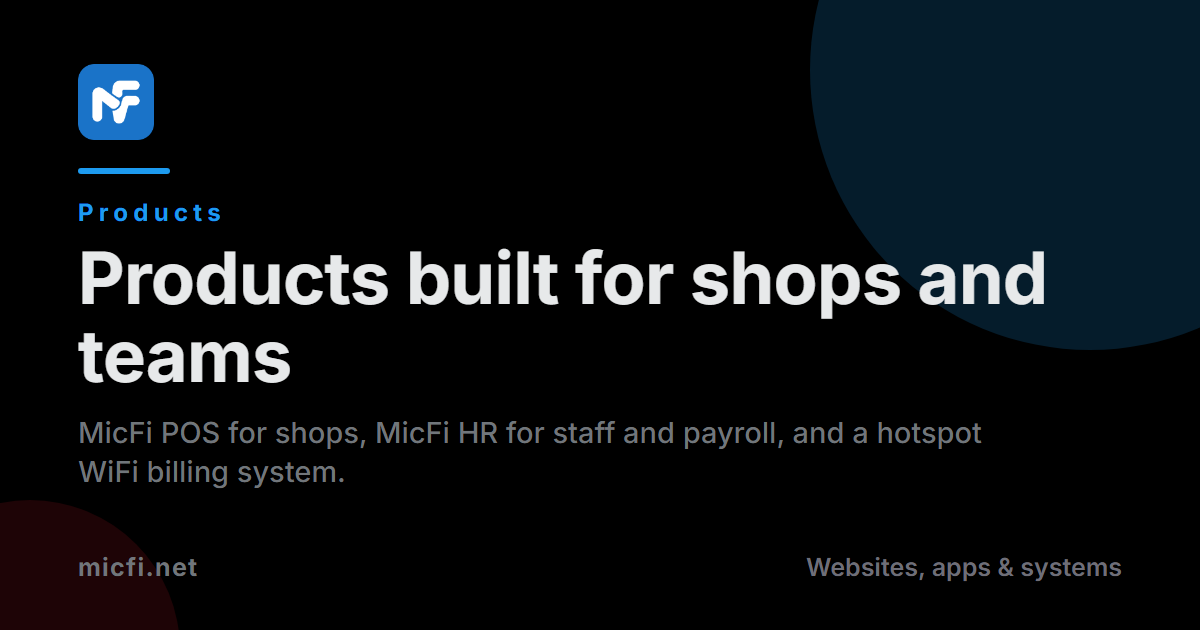
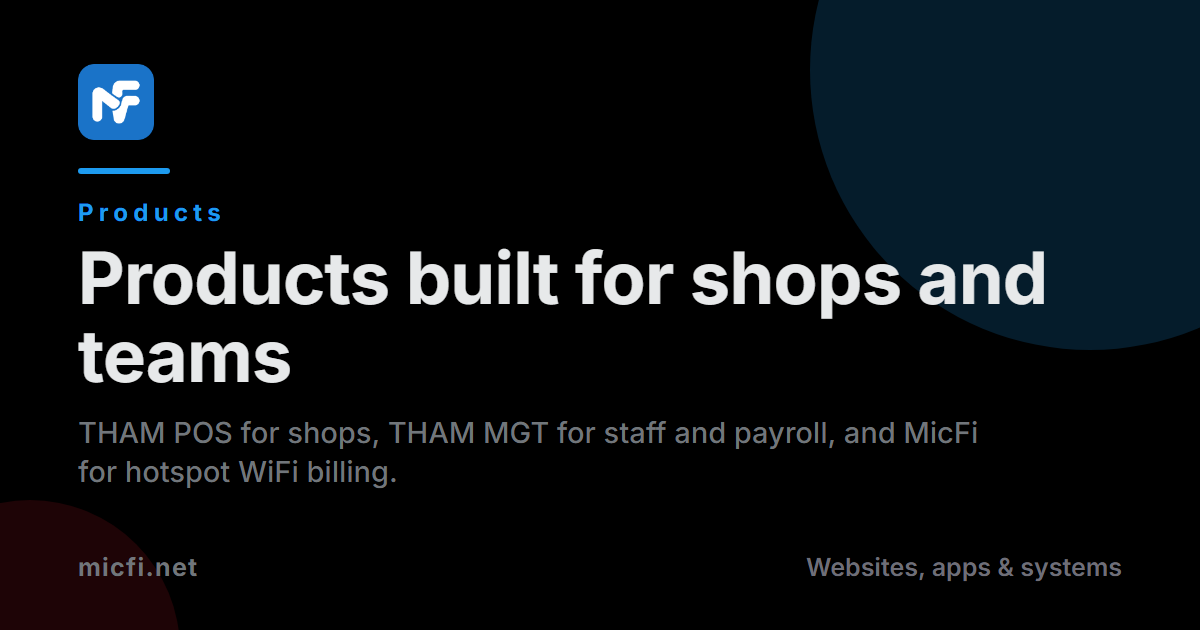
Rename product titles to THAM POS, THAM MGT, MicFi

Changed region(s): [[0.0617, 0.6635, 0.8325, 0.7841]]

diff --git a/products/index.html b/products/index.html
@@ -4,13 +4,13 @@
   <meta charset="utf-8">
   <meta name="viewport" content="width=device-width, initial-scale=1, viewport-fit=cover">
   <!-- META:START generated by tools/generate-meta.js from js/config.js. Do not edit by hand. -->
-  <title>Products | MicFi POS, HR and Hotspot Systems</title>
-  <meta name="description" content="The products MicFi builds: MicFi POS for shops, MicFi HR for staff records and payroll, and a hotspot WiFi billing system.">
+  <title>Products | THAM POS, THAM MGT and MicFi</title>
+  <meta name="description" content="The products MicFi builds: THAM POS for shops, THAM MGT for staff records and payroll, and MicFi for hotspot WiFi billing.">
   <link rel="canonical" href="https://micfi.net/products/">
   <meta property="og:type" content="website">
   <meta property="og:site_name" content="MicFi">
   <meta property="og:title" content="Products built for shops and teams">
-  <meta property="og:description" content="MicFi POS for shops, MicFi HR for staff and payroll, and a hotspot WiFi billing system.">
+  <meta property="og:description" content="THAM POS for shops, THAM MGT for staff and payroll, and MicFi for hotspot WiFi billing.">
   <meta property="og:url" content="https://micfi.net/products/">
   <meta property="og:image" content="https://micfi.net/assets/og/products.png">
   <meta property="og:image:type" content="image/png">
@@ -20,7 +20,7 @@
   <meta property="og:locale" content="en_US">
   <meta name="twitter:card" content="summary_large_image">
   <meta name="twitter:title" content="Products built for shops and teams">
-  <meta name="twitter:description" content="MicFi POS for shops, MicFi HR for staff and payroll, and a hotspot WiFi billing system.">
+  <meta name="twitter:description" content="THAM POS for shops, THAM MGT for staff and payroll, and MicFi for hotspot WiFi billing.">
   <meta name="twitter:image" content="https://micfi.net/assets/og/products.png">
   <meta name="twitter:image:alt" content="Products built for shops and teams">
   <!-- META:END -->
@@ -84,9 +84,9 @@
       <h2 class="sr-only">All products</h2>
       <div class="grid-3" data-products-grid>
         <!-- CONTENT:products-grid START generated by tools/generate-content.js. Do not edit by hand. -->
-        <article class="media-card"><div class="media-thumb" aria-hidden="true"><img class="media-thumb-img" src="/assets/products/pos.png" alt="" loading="lazy" decoding="async"></div><div class="media-body"><div class="media-tags"><span class="tag">POS</span></div><h3 class="item-title">MicFi POS</h3><p class="small muted">A point-of-sale system for shops and small retail: sales, stock, and receipts in one place.</p></div></article>
-        <article class="media-card"><div class="media-thumb" aria-hidden="true"><img class="media-thumb-img" src="/assets/products/hrm.png" alt="" loading="lazy" decoding="async"></div><div class="media-body"><div class="media-tags"><span class="tag">Management System</span></div><h3 class="item-title">MicFi HR Management System</h3><p class="small muted">An HR management system for staff records, attendance, payroll, and leave in a single place.</p></div></article>
-        <article class="media-card"><div class="media-thumb" aria-hidden="true"><img class="media-thumb-img" src="/assets/products/wifi.png" alt="" loading="lazy" decoding="async"></div><div class="media-body"><div class="media-tags"><span class="tag">Billing System</span></div><h3 class="item-title">Hotspot WiFi Billing System</h3><p class="small muted">Track hotspot sales, accept Mobile Money, manage voucher distribution, send SMS alerts, and more.</p></div></article>
+        <article class="media-card"><div class="media-thumb" aria-hidden="true"><img class="media-thumb-img" src="/assets/products/pos.png" alt="" loading="lazy" decoding="async"></div><div class="media-body"><div class="media-tags"><span class="tag">POS</span></div><h3 class="item-title">THAM POS</h3><p class="small muted">A point-of-sale system for shops and small retail: sales, stock, and receipts in one place.</p></div></article>
+        <article class="media-card"><div class="media-thumb" aria-hidden="true"><img class="media-thumb-img" src="/assets/products/hrm.png" alt="" loading="lazy" decoding="async"></div><div class="media-body"><div class="media-tags"><span class="tag">Management System</span></div><h3 class="item-title">THAM MGT</h3><p class="small muted">An HR management system for staff records, attendance, payroll, and leave in a single place.</p></div></article>
+        <article class="media-card"><div class="media-thumb" aria-hidden="true"><img class="media-thumb-img" src="/assets/products/wifi.png" alt="" loading="lazy" decoding="async"></div><div class="media-body"><div class="media-tags"><span class="tag">Billing System</span></div><h3 class="item-title">MicFi</h3><p class="small muted">Track hotspot sales, accept Mobile Money, manage voucher distribution, send SMS alerts, and more.</p></div></article>
 <!-- CONTENT:products-grid END -->
       </div>
     </section>

diff --git a/index.html b/index.html
@@ -200,9 +200,9 @@
       </div>
       <div class="teaser-strip" data-products-teaser>
         <!-- CONTENT:products-teaser START generated by tools/generate-content.js. Do not edit by hand. -->
-        <article class="media-card"><div class="media-thumb" aria-hidden="true"><img class="media-thumb-img" src="/assets/products/pos.png" alt="" loading="lazy" decoding="async"></div><div class="media-body"><div class="media-tags"><span class="tag">POS</span></div><h3 class="item-title">MicFi POS</h3><p class="small muted">A point-of-sale system for shops and small retail: sales, stock, and receipts in one place.</p></div></article>
-        <article class="media-card"><div class="media-thumb" aria-hidden="true"><img class="media-thumb-img" src="/assets/products/hrm.png" alt="" loading="lazy" decoding="async"></div><div class="media-body"><div class="media-tags"><span class="tag">Management System</span></div><h3 class="item-title">MicFi HR Management System</h3><p class="small muted">An HR management system for staff records, attendance, payroll, and leave in a single place.</p></div></article>
-        <article class="media-card"><div class="media-thumb" aria-hidden="true"><img class="media-thumb-img" src="/assets/products/wifi.png" alt="" loading="lazy" decoding="async"></div><div class="media-body"><div class="media-tags"><span class="tag">Billing System</span></div><h3 class="item-title">Hotspot WiFi Billing System</h3><p class="small muted">Track hotspot sales, accept Mobile Money, manage voucher distribution, send SMS alerts, and more.</p></div></article>
+        <article class="media-card"><div class="media-thumb" aria-hidden="true"><img class="media-thumb-img" src="/assets/products/pos.png" alt="" loading="lazy" decoding="async"></div><div class="media-body"><div class="media-tags"><span class="tag">POS</span></div><h3 class="item-title">THAM POS</h3><p class="small muted">A point-of-sale system for shops and small retail: sales, stock, and receipts in one place.</p></div></article>
+        <article class="media-card"><div class="media-thumb" aria-hidden="true"><img class="media-thumb-img" src="/assets/products/hrm.png" alt="" loading="lazy" decoding="async"></div><div class="media-body"><div class="media-tags"><span class="tag">Management System</span></div><h3 class="item-title">THAM MGT</h3><p class="small muted">An HR management system for staff records, attendance, payroll, and leave in a single place.</p></div></article>
+        <article class="media-card"><div class="media-thumb" aria-hidden="true"><img class="media-thumb-img" src="/assets/products/wifi.png" alt="" loading="lazy" decoding="async"></div><div class="media-body"><div class="media-tags"><span class="tag">Billing System</span></div><h3 class="item-title">MicFi</h3><p class="small muted">Track hotspot sales, accept Mobile Money, manage voucher distribution, send SMS alerts, and more.</p></div></article>
 <!-- CONTENT:products-teaser END -->
       </div>
       <a class="section-link reveal" data-products-more href="/products/">View all products</a>

diff --git a/js/config.js b/js/config.js
@@ -139,11 +139,11 @@ MicFi.PAGE_META = {
   },
   "/products/": {
     file: "products/index.html",
-    title: "Products | MicFi POS, HR and Hotspot Systems",
-    description: "The products MicFi builds: MicFi POS for shops, MicFi HR for staff records and payroll, and a hotspot WiFi billing system.",
+    title: "Products | THAM POS, THAM MGT and MicFi",
+    description: "The products MicFi builds: THAM POS for shops, THAM MGT for staff records and payroll, and MicFi for hotspot WiFi billing.",
     ogTitle: "Products built for shops and teams",
     ogEyebrow: "Products",
-    ogDescription: "MicFi POS for shops, MicFi HR for staff and payroll, and a hotspot WiFi billing system.",
+    ogDescription: "THAM POS for shops, THAM MGT for staff and payroll, and MicFi for hotspot WiFi billing.",
     ogImage: "/assets/og/products.png"
   },
   "/services/": {

diff --git a/js/products.js b/js/products.js
@@ -20,21 +20,21 @@
 
   var PRODUCTS = [
     {
-      name: "MicFi POS",
+      name: "THAM POS",
       type: "POS",
       description: "A point-of-sale system for shops and small retail: sales, stock, and receipts in one place.",
       image: "/assets/products/pos.png",
       link: ""
     },
     {
-      name: "MicFi HR Management System",
+      name: "THAM MGT",
       type: "Management System",
       description: "An HR management system for staff records, attendance, payroll, and leave in a single place.",
       image: "/assets/products/hrm.png",
       link: ""
     },
     {
-      name: "Hotspot WiFi Billing System",
+      name: "MicFi",
       type: "Billing System",
       description: "Track hotspot sales, accept Mobile Money, manage voucher distribution, send SMS alerts, and more.",
       image: "/assets/products/wifi.png",
